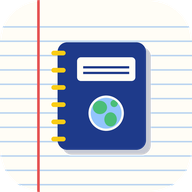
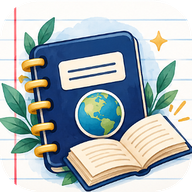
Add files via upload

diff --git a/service-worker.js b/service-worker.js
@@ -1,5 +1,5 @@
 /* The Interactive Notebook — offline helper. Change VERSION when images or icons change. */
-const VERSION = 'inb-v1';
+const VERSION = 'inb-v2';
 const SHELL = [
   './', 'index.html', 'manifest.json',
   'icons/icon-192.png', 'icons/icon-512.png', 'icons/maskable-512.png', 'icons/apple-touch-icon.png', 'icons/favicon-32.png',
